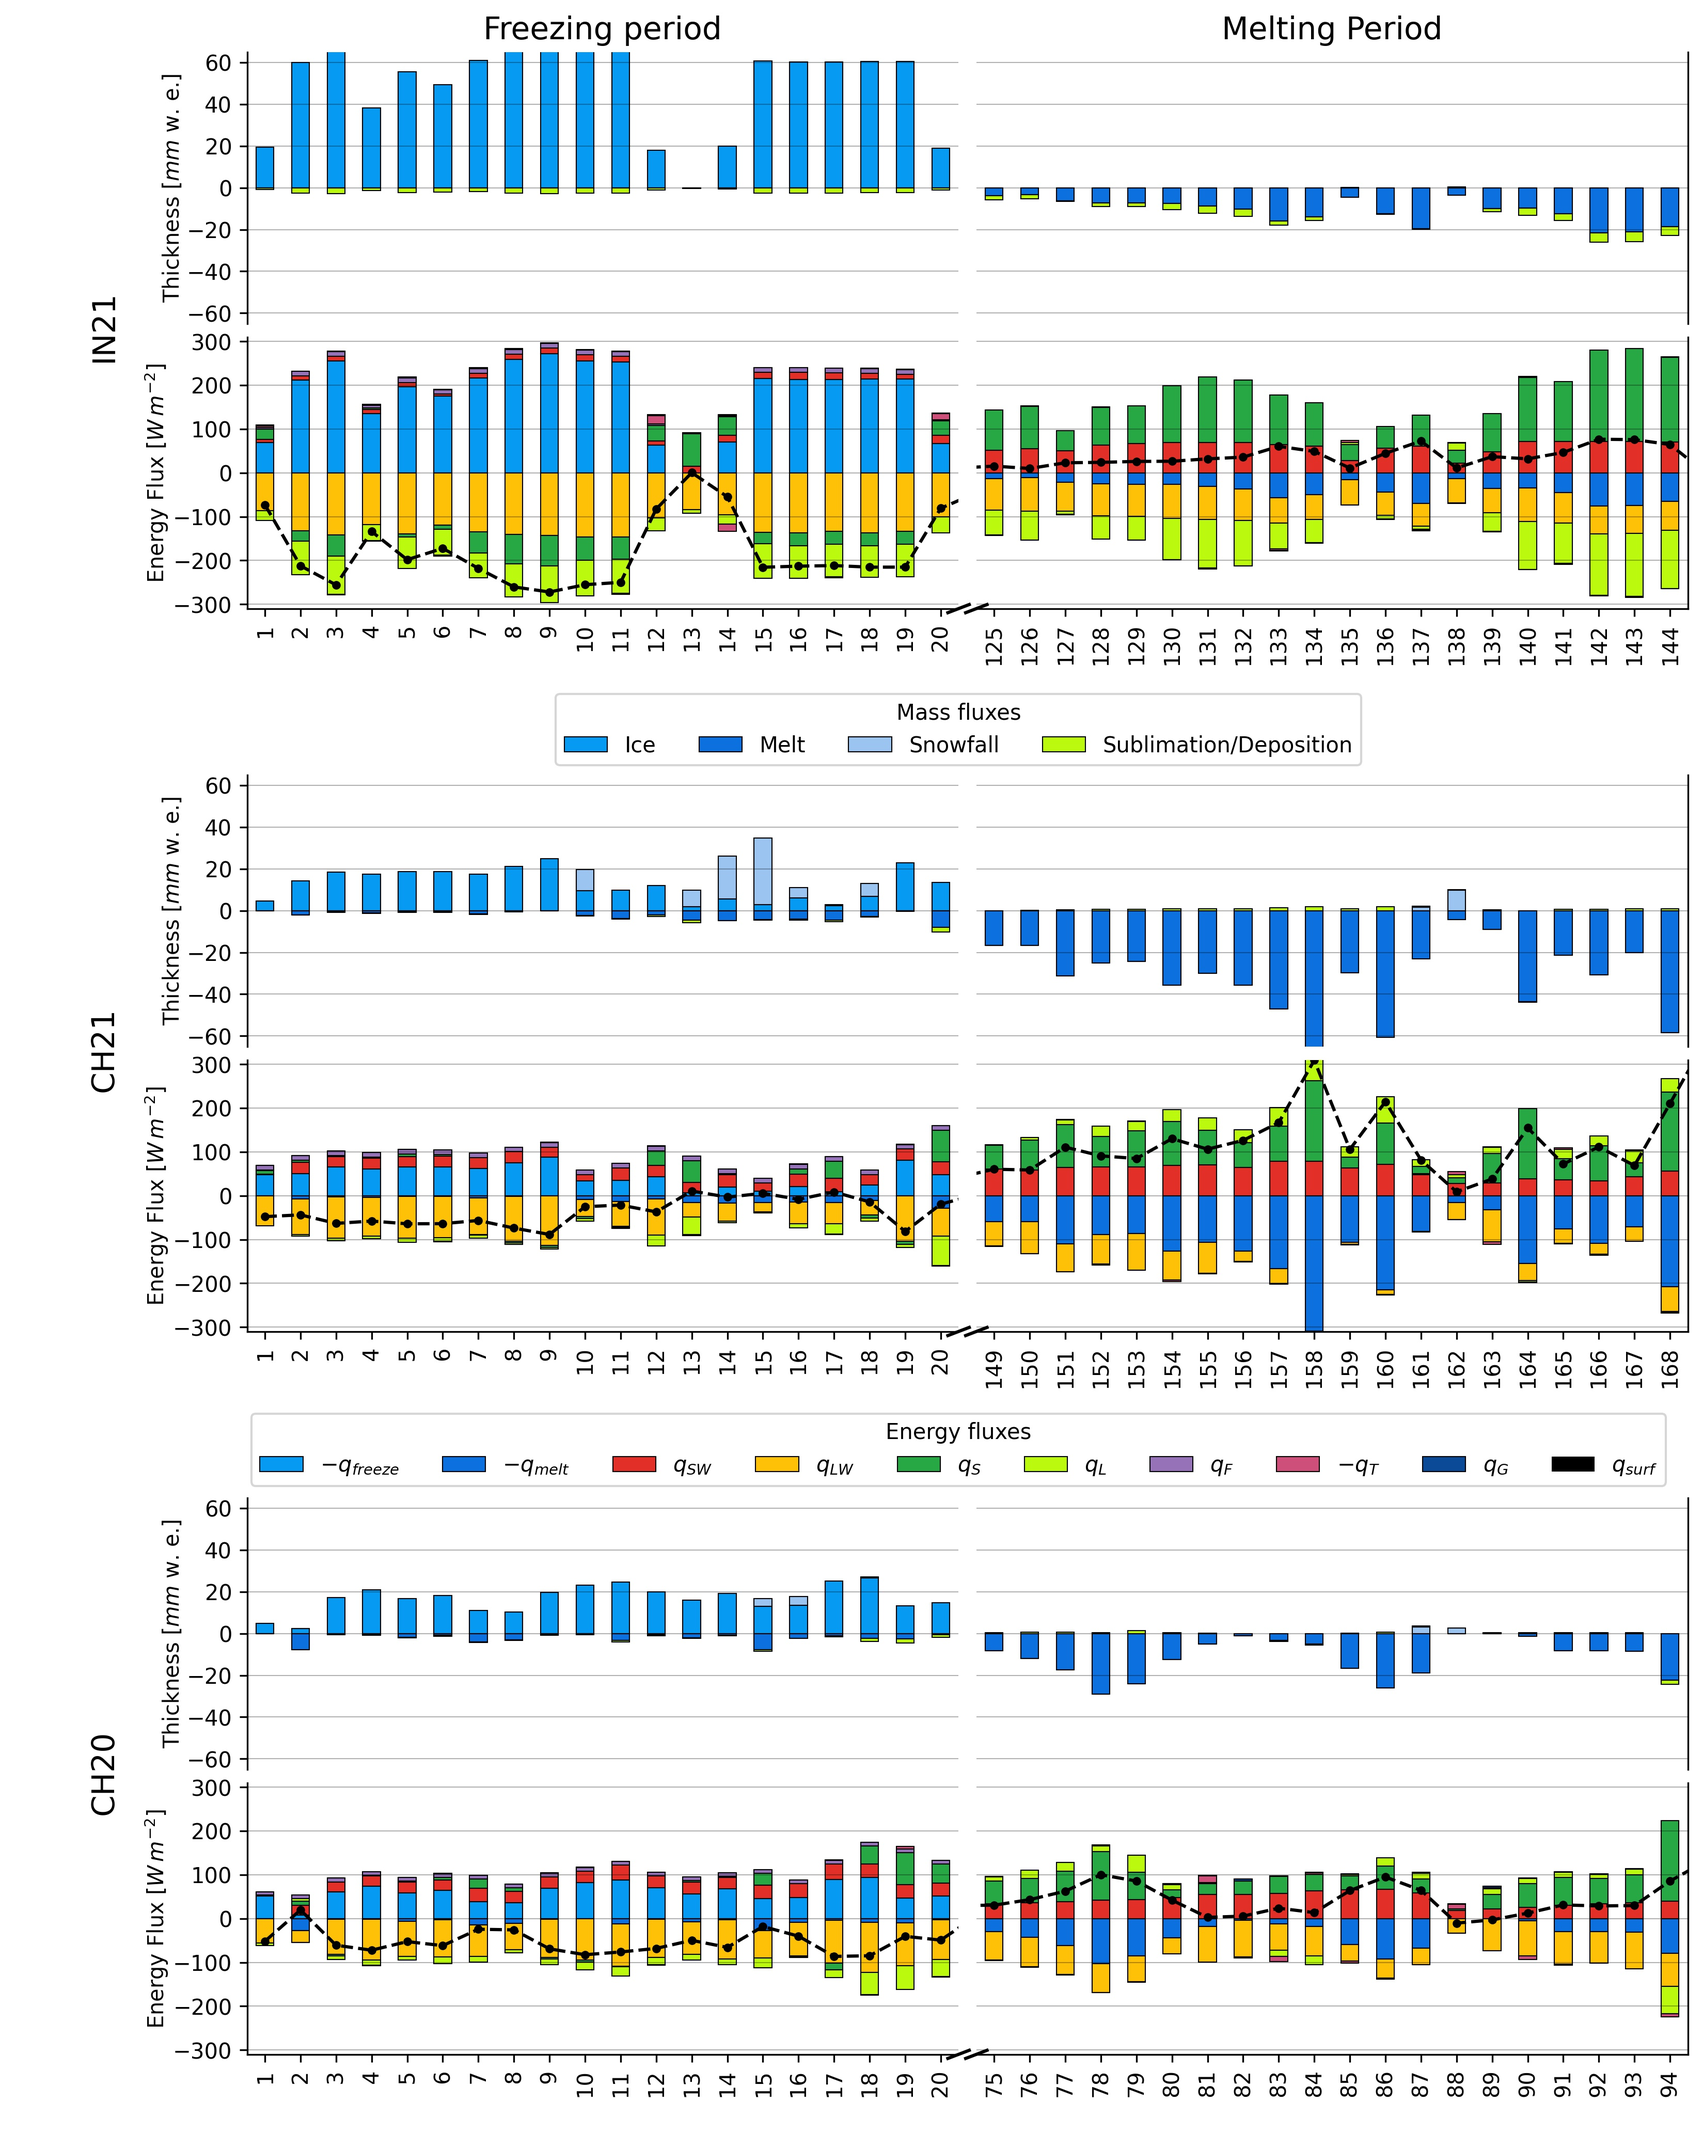
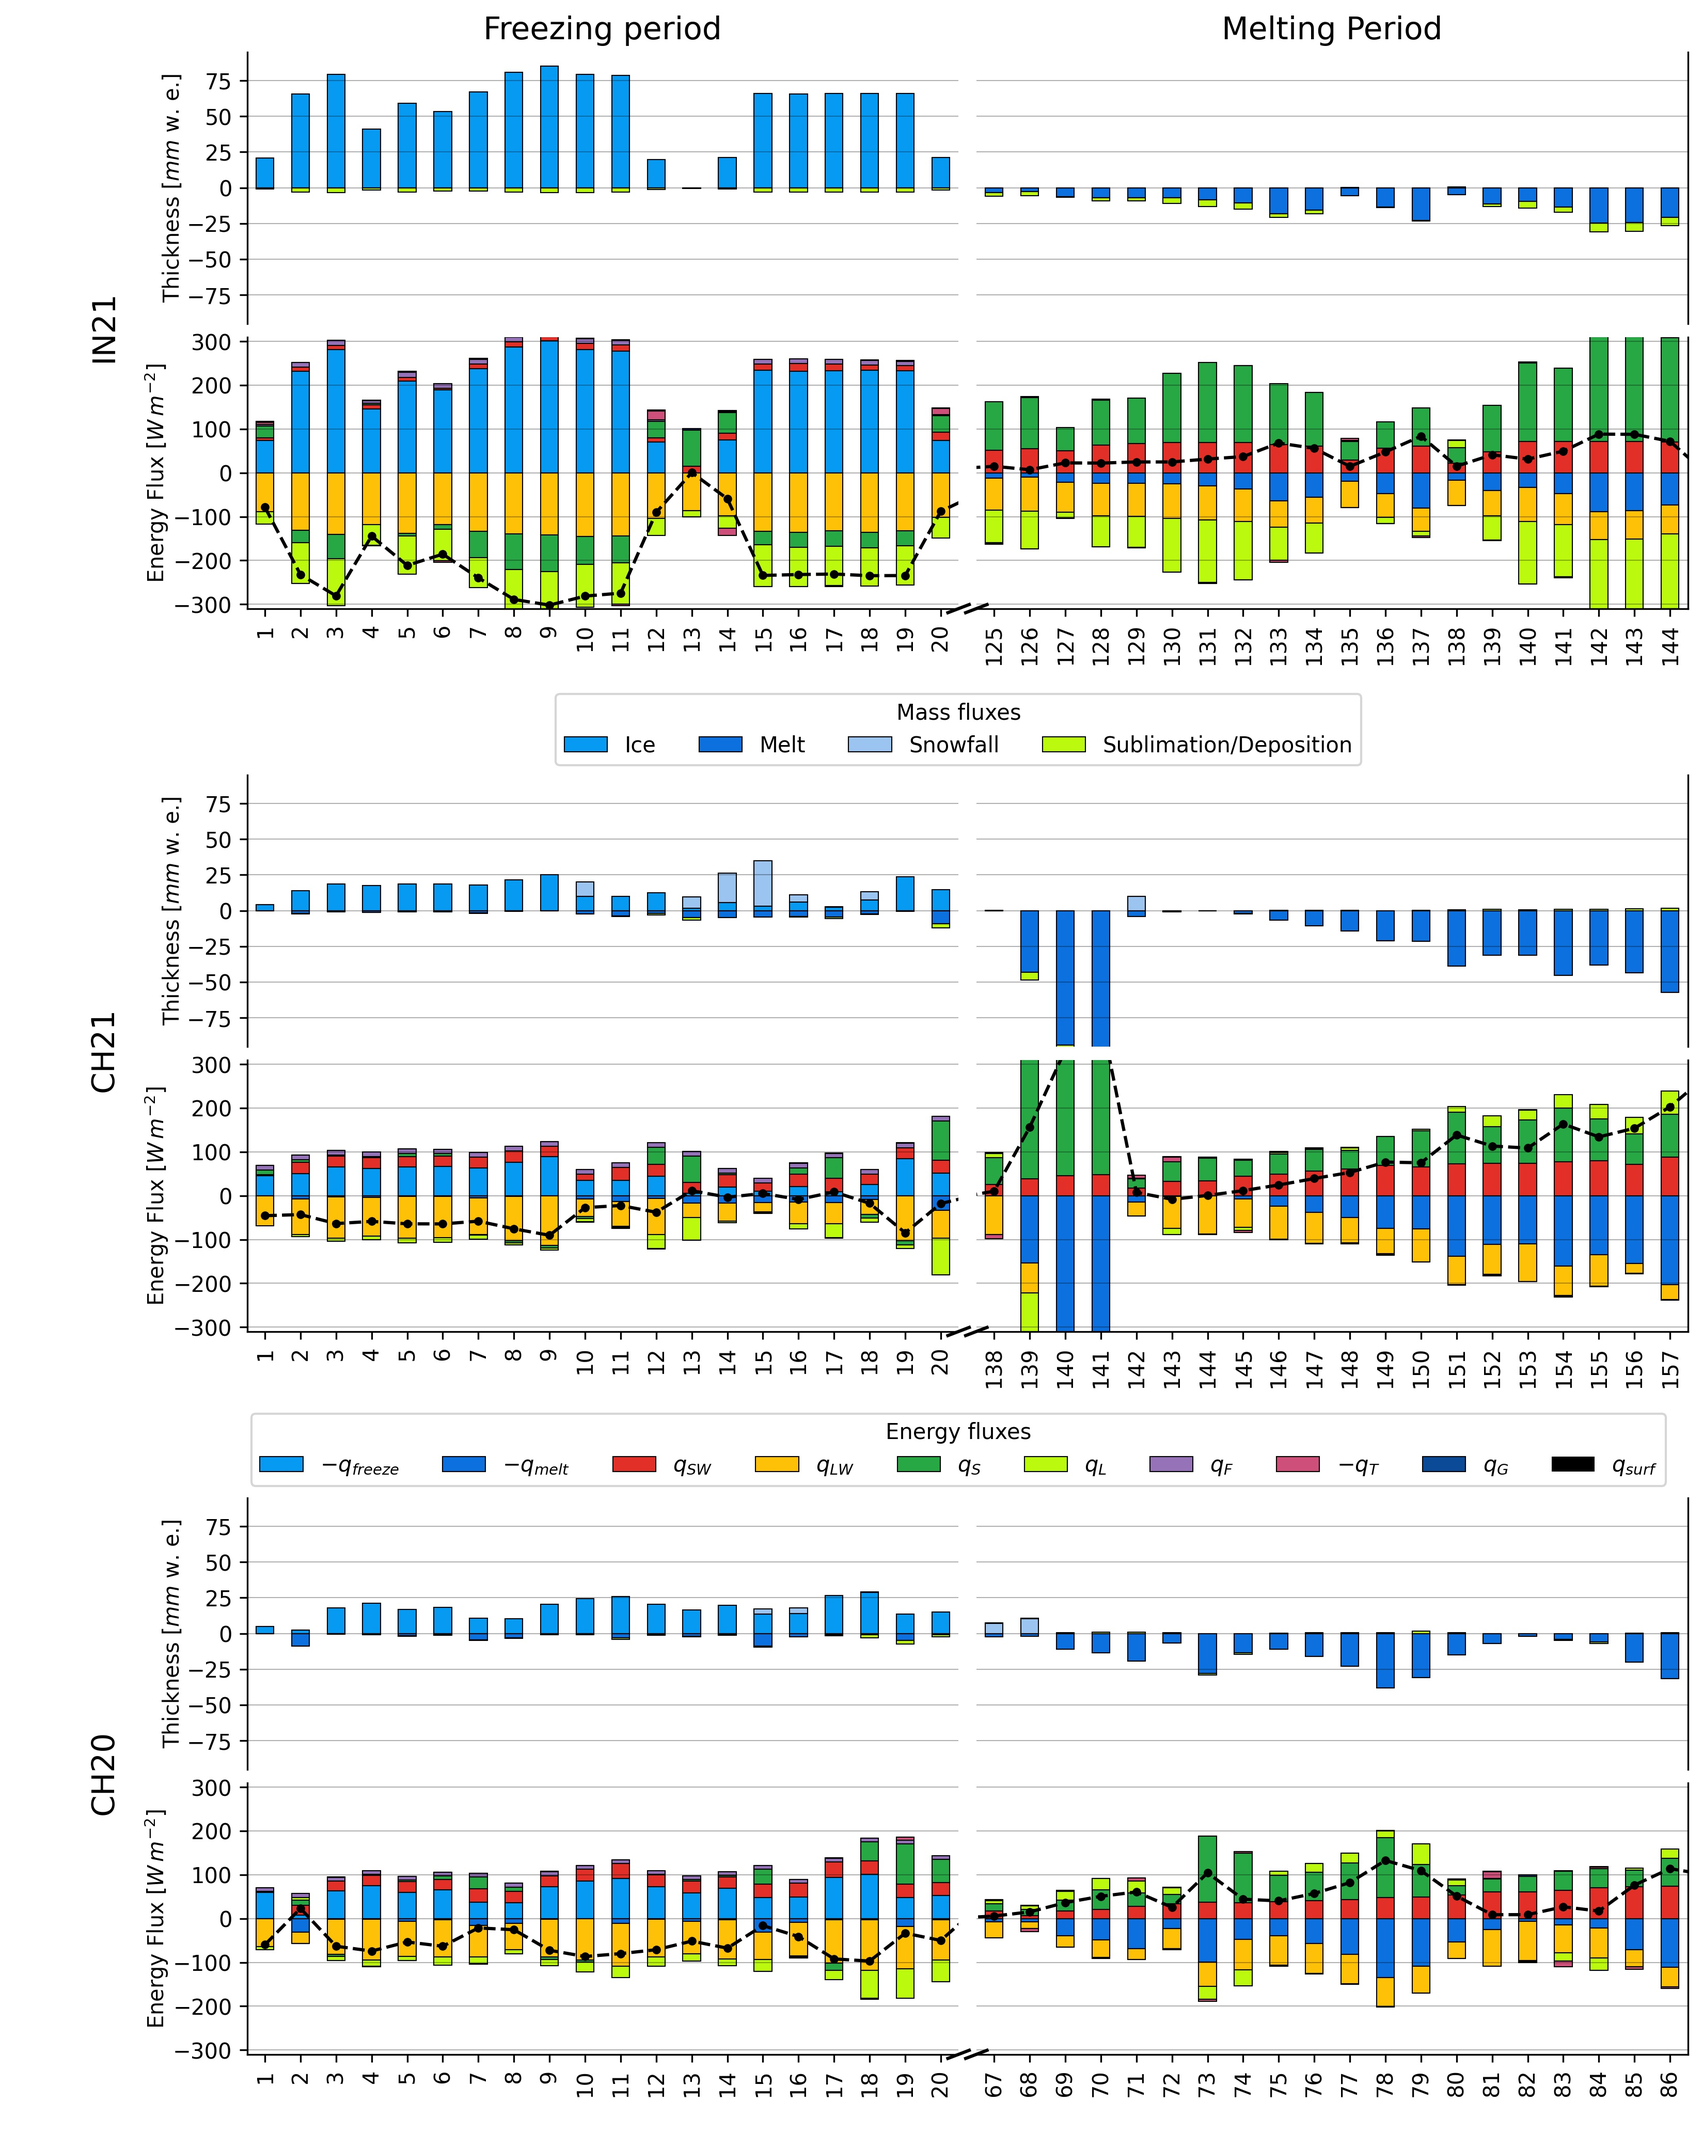
update fig

diff --git a/src/models/icestupaClass.py b/src/models/icestupaClass.py
@@ -28,8 +28,11 @@ logger.propagate = False
 
 
 class Icestupa:
-    """Physical Constants"""
 
+    """Model hyperparameter"""
+    DT = 60 * 60  # Model time step
+
+    """Physical Constants"""
     L_S = 2848 * 1000  # J/kg Sublimation
     L_F = 334 * 1000  # J/kg Fusion
     C_A = 1.01 * 1000  # J/kgC Specific heat air
@@ -45,21 +48,18 @@ class Icestupa:
     G = 9.81  # Gravitational acceleration
 
     """Surface Properties"""
-
     IE = 0.97  # Ice Emissivity IE
     A_I = 0.25  # Albedo of Ice A_I
     A_S = 0.85  # Albedo of Fresh Snow A_S
     A_DECAY = 13.5 # Albedo decay rate decay_t_d
     Z = 0.005  # Ice Momentum and Scalar roughness length
     T_PPT = 1  # Temperature condition for liquid precipitation
-
-    """Fountain constants"""
-    # T_F = 1.5  # FOUNTAIN Water temperature
-
-    """Model constants"""
-    DT = 60 * 60  # Model time step
     # DX = 20e-03  # m Surface layer thickness growth rate
     DX = 50e-03  # m Surface layer thickness growth rate
+
+    # """Fountain constants"""
+    # T_F = 1.5  # FOUNTAIN Water temperature
+
 
     def __init__(self, location="Guttannen 2021", params="default"):
 

diff --git a/src/utils/energy_bal_plot.py b/src/utils/energy_bal_plot.py
@@ -217,7 +217,7 @@ if __name__ == "__main__":
                     else:
                         ax[i, j].plot((-d, d), (-d, +d), **kwargs)  # top-right diagonal
                 else:
-                    ax[i, j].set_ylim(-65, 65)
+                    ax[i, j].set_ylim(-95, 95)
                     ax[i, j].set_ylabel("Thickness [$mm$ w. e.]")
                     ax[i, j].spines["bottom"].set_visible(False)
                     ax[i, j].tick_params(bottom=False)
